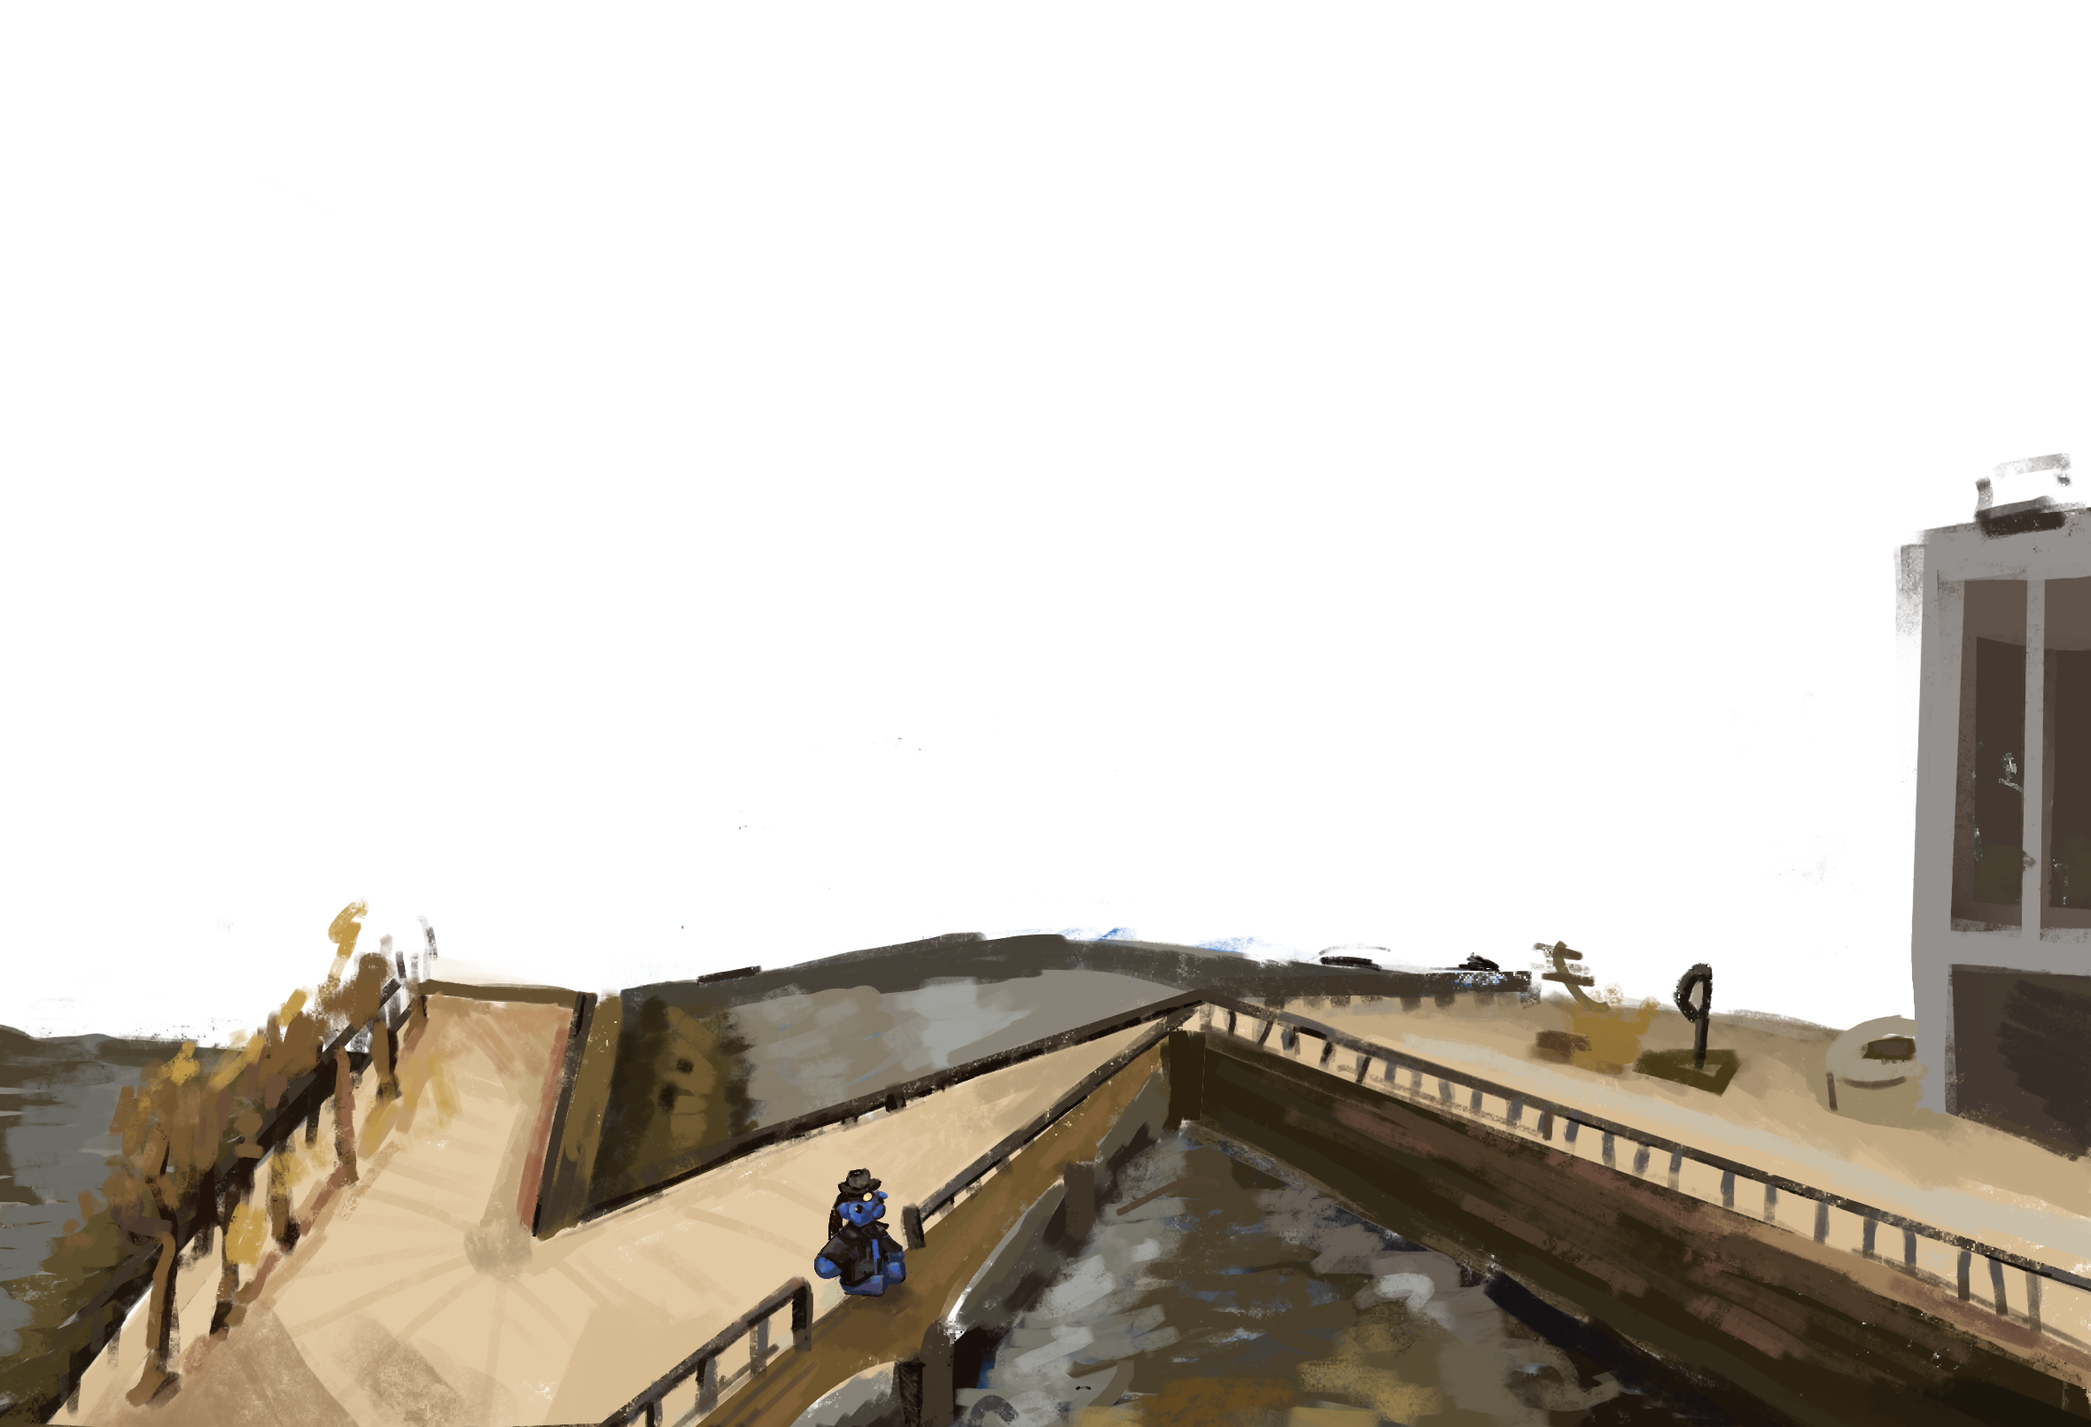
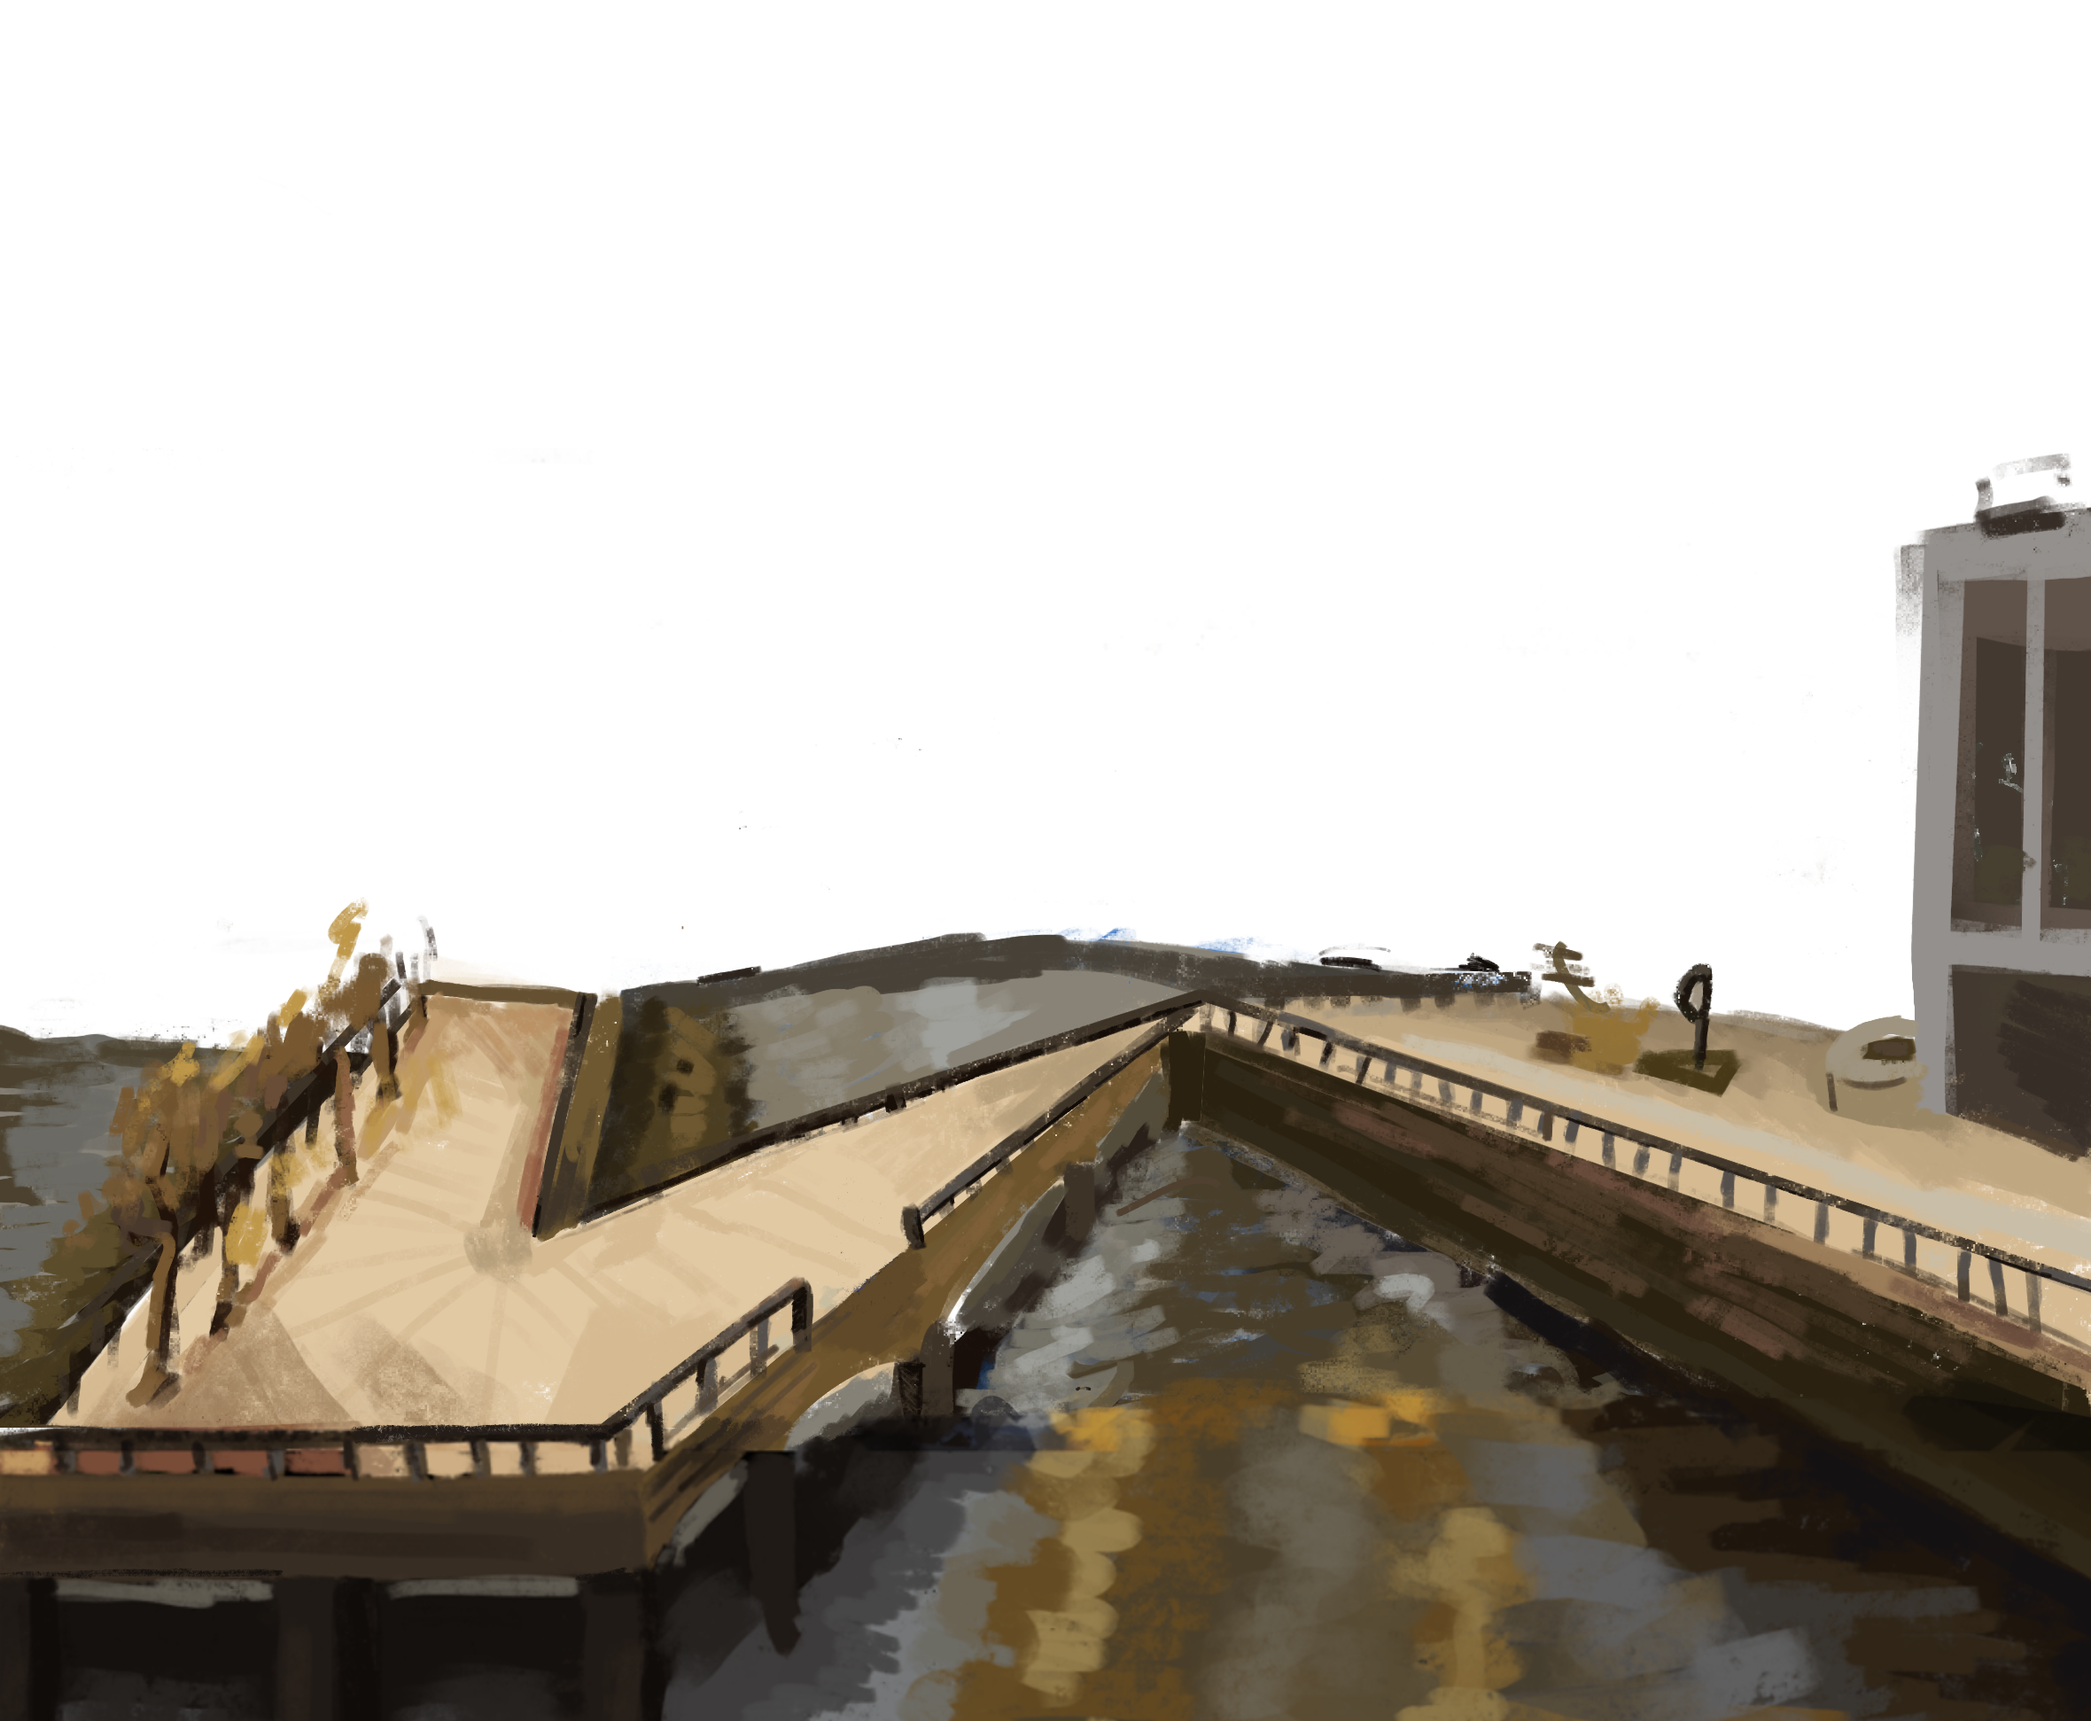
landing starting to look good

diff --git a/react/src/components/landing/LandingSplash.tsx b/react/src/components/landing/LandingSplash.tsx
@@ -1,9 +1,10 @@
 import React, { useEffect } from 'react';
 
-import layer1 from '../../assets/landing/layer_1.png';
+import bear_regular from '../../assets/landing/bear_regular.png';
+import bear_wave from '../../assets/landing/bear_wave.png';
+import layer1 from '../../assets/landing/layer_1_crop.png';
 import layer2 from '../../assets/landing/layer_2.png';
 import layer3 from '../../assets/landing/layer_3.png';
-// import layer4 from '../../assets/landing/layer_4.png';
 
 const LandingSplash: React.FC = () => {
 
@@ -16,20 +17,20 @@ const LandingSplash: React.FC = () => {
       // const layer1Element = document.querySelector('.layer-1') as HTMLElement;
       const layer2Element = document.querySelector('.layer-2') as HTMLElement;
       const layer3Element = document.querySelector('.layer-3') as HTMLElement;
-      // const layer4Element = document.querySelector('.layer-4') as HTMLElement;
+      const layer4Element = document.querySelector('.layer-4') as HTMLElement;
 
       // if (layer1Element) {
       //   layer1Element.style.transform = `translateY(-${scrollY * 0.2}px)`;
       // }
       if (layer2Element) {
-        layer2Element.style.transform = `translateY(-${scrollY * 0.5}px)`;
+        layer2Element.style.transform = `translateY(-${scrollY * 0.3}px)`;
       }
       if (layer3Element) {
-        layer3Element.style.transform = `translateY(-${scrollY * 0.7}px)`;
+        layer3Element.style.transform = `translateY(-${scrollY * 0.6}px)`;
       }
-      // if (layer4Element) {
-      //   layer4Element.style.transform = `translateY(-${scrollY * 0.5}px)`;
-      // }
+      if (layer4Element) {
+        layer4Element.style.transform = `translateY(-${scrollY * 0.6}px)`;
+      }
     };
 
     const resizeHandler = () => {
@@ -62,7 +63,7 @@ const LandingSplash: React.FC = () => {
     <section className='landingtop'
     style={{
       mask: "linear-gradient(to bottom, rgba(255,255,255,1) 83%, rgba(0,0,0,0) 100%)",
-      WebkitMask: "linear-gradient(to bottom, rgba(255,255,255,1) 83%, rgba(0,0,0,0) 100%)",
+      WebkitMask: "linear-gradient(to bottom, rgba(0, 0, 0, 0) 0%, rgba(255, 255, 255, 1) 17%, rgba(255, 255, 255, 1) 83%, rgba(255, 255, 255, 0) 100%);",
     }}>
       <div className='map relative left-1/2 transform -translate-x-1/2 aspect-w-3 aspect-h-2 w-full'>
         <div className="art-bg">
@@ -78,10 +79,24 @@ const LandingSplash: React.FC = () => {
               className="layer-3 art-bg-img absolute top-0 left-0 w-full z-30"
               src={layer3}
             />
-            {/* <img 
-              className="layer-4 art-bg-img absolute top-0 left-0 w-full z-30"
-              src={layer4}
-            /> */}
+            <img
+              className="layer-4 art-bg-img absolute w-full z-40"
+              style={{
+                top: "89%",
+                left: "38%",
+                width: "6%",
+                transform: "translate(-50%, -50%)",
+              }}
+              onMouseEnter={(e) => {
+                const target = e.target as HTMLImageElement;
+                target.src = bear_wave;
+              }}
+              onMouseLeave={(e) => {
+                const target = e.target as HTMLImageElement;
+                target.src = bear_regular;
+              }}
+              src={bear_regular}
+              />
         </div>
       </div>
     </section>

diff --git a/react/src/components/Navbar.tsx b/react/src/components/Navbar.tsx
@@ -49,21 +49,27 @@ const components: { title: string; href: string; description: string }[] = [
   },
 ]
  
-export default function Navbar() {
+export default function Navbar({navbarColor}: {navbarColor: string}) {
+      // style={{
+    //   position: "sticky",
+    //   top: 0,
+    //   left: 0,
+    //   width: "100%",
+    //   zIndex: 1000,
+    //   backgroundColor: "#050505ad",
+    //   backdropFilter: "blur(20px) saturate(160%) contrast(45%) brightness(140%)",
+    //   WebkitBackdropFilter: "blur(20px) saturate(160%) contrast(45%) brightness(140%)",
+    // }}>
   return (
-    <div className="navbar"
+    <div className={`navbar sticky top-0 z-40 w-full backdrop-blur-sm flex-none transition-colors duration-500 lg:z-50 lg:border-b lg:border-slate-900/10 dark:border-slate-50/[0.06] supports-backdrop-blur:bg-white/60 dark:bg-transparent`}
     style={{
-      position: "fixed",
-      top: 0,
-      left: 0,
-      width: "100%",
-      zIndex: 1000,
-      backgroundColor: "#050505ad",
-      backdropFilter: "blur(20px) saturate(160%) contrast(45%) brightness(140%)",
-      WebkitBackdropFilter: "blur(20px) saturate(160%) contrast(45%) brightness(140%)",
+      backgroundColor: navbarColor,
     }}>
       <NavigationMenu className="dark">
         <NavigationMenuList>
+          <NavigationMenuItem>
+            <NavigationMenuTrigger>Brown Puzzlehunt</NavigationMenuTrigger>
+          </NavigationMenuItem>
           <NavigationMenuItem>
             <NavigationMenuTrigger>Getting started</NavigationMenuTrigger>
             <NavigationMenuContent>
@@ -111,9 +117,6 @@ export default function Navbar() {
                 ))}
               </ul>
             </NavigationMenuContent>
-          </NavigationMenuItem>
-          <NavigationMenuItem>
-
           </NavigationMenuItem>
         </NavigationMenuList>
       </NavigationMenu>

diff --git a/react/src/main.tsx b/react/src/main.tsx
@@ -1,7 +1,7 @@
 import * as React from "react";
 import * as ReactDOM from "react-dom/client";
 import { createBrowserRouter, RouterProvider } from "react-router-dom";
-import Navbar from "./components/Navbar";
+import { PageWrapper } from "./components/pagewrapper";
 import "./index.css";
 import InfoPage from "./routes/InfoPage";
 import Landing from "./routes/Landing";
@@ -10,22 +10,21 @@ import SocialDeduction from "./routes/major_cases/SocialDeduction";
 const router = createBrowserRouter([
   {
     path: "/social-deduction",
-    element: <SocialDeduction />
+    element: <PageWrapper bg_color={"#1c160d"} navbar_color={"#1c110d96"} route={<SocialDeduction />} />
   },
   {
     path: "/landing",
-    element: <Landing />
+    element: <PageWrapper bg_color={"#02031d"} navbar_color={"#0f0d2e82"} route={<Landing />} />
   },
   {
     path: "/info",
-    element: <InfoPage />
+    element: <PageWrapper bg_color={"#02031d"} navbar_color={"#0f0d2e82"} route={<InfoPage />} />
   }
   
 ]);
 
 ReactDOM.createRoot(document.getElementById("root")!).render(
   <React.StrictMode>
-    <Navbar />
     <RouterProvider router={router} />
   </React.StrictMode>
 );

diff --git a/react/src/components/landing/LandingInfo.tsx b/react/src/components/landing/LandingInfo.tsx
@@ -8,10 +8,12 @@ const LandingInfo: React.FC = () => {
     
 
     
-    <div className='info'>
-      {/* // ADD QUESTION MARK WITH RELATIVE STYLING HERE */}
-      
-      <div className="grid grid-cols-1 md:grid-cols-9 gap-4 p-5">
+    <div className='info pt-5'
+      style={{
+        mask: "linear-gradient(rgb(255, 255, 255) 70%, rgba(0, 0, 0, 0) 100%)",
+        WebkitMask: "linear-gradient(rgb(255, 255, 255) 70%, rgba(0, 0, 0, 0) 100%)",
+      }}>
+      <div className="grid grid-cols-1 md:grid-cols-9 gap-4 p-5 pb-10">
         <div className="what-box col-start-1 col-span-5 md:col-start-2 md:col-span-3 text-center dark bg-gradient-to-b from-muted/50 to-muted p-6 no-underline outline-none focus:shadow-md btn-gradient-1 relative">
           <div className="question-mark absolute rotate-[333deg]" style={{top: "-74px",left: "-67px",}}>
             <img src={question} alt="Question Mark" className="h-44 w-44" style={{filter: "invert(100%) sepia(0%) saturate(0%) hue-rotate(158deg) brightness(104%) contrast(102%)",}}/>

diff --git a/react/src/components/PageWrapper.tsx b/react/src/components/PageWrapper.tsx
@@ -1,0 +1,18 @@
+import Footer from "@/components/Footer"
+import Navbar from "@/components/Navbar"
+
+
+export const PageWrapper = ({bg_color, navbar_color, route}: {bg_color: string, navbar_color: string, route: React.ReactNode}) => {
+  return (
+    <div className={`react-page`}
+    style={{
+      backgroundColor: bg_color
+    }}>
+      <Navbar navbarColor={navbar_color}/>
+      <div className="content">
+        {route}
+      </div>
+      <Footer />
+    </div>
+  )
+}

diff --git a/puzzles/templates/react_base.html b/puzzles/templates/react_base.html
@@ -5,6 +5,6 @@
   </script>
   <script type="module" crossorigin src="/static/react/index.js"></script>
   <link rel="stylesheet" crossorigin href="/static/react/index.css">
-  <div id="root"></div>  <!-- This is where your React app will be mounted -->
+  <div id="root" style="background-color: #222b50;"></div>  <!-- This is where your React app will be mounted -->
   {% load static %}
-{% endblock %} 
+{% endblock %}  

diff --git a/react/src/components/Footer.tsx b/react/src/components/Footer.tsx
@@ -1,0 +1,9 @@
+
+export default function Footer() {
+  return (
+    // text centered, slate
+    <div className="footer bg-intherit text-white text-center p-3">
+      <span className="text-muted-foreground">powered by <a className="underline font-semibold" href="https://github.com/galacticpuzzlehunt/gph-site/tree/master">gph-site</a></span>
+    </div>
+  )
+}

diff --git a/react/src/routes/InfoPage.tsx b/react/src/routes/InfoPage.tsx
@@ -1,9 +1,13 @@
+import ProgressDocs from "@/components/ProgressDocs";
 
 
 export default function InfoPage() {
+  //bg-[#02031d]
   return (
-    <div>
-      hello
+    <div className="info bg-slate-900 text-white h-full"> 
+      <ProgressDocs>
+        hello there
+      </ProgressDocs>
     </div>
   )
 }

diff --git a/react/src/components/ProgressDocs.tsx b/react/src/components/ProgressDocs.tsx
@@ -1,0 +1,12 @@
+
+
+import { ReactNode } from 'react';
+
+export default function ProgressDocs({ children }: { children: ReactNode }) {
+  return (
+    <div className="progress-docs">
+      <div className="progress"></div>
+      <div className="docs py-10 px-20">{children}</div>
+    </div>
+  )
+}

diff --git a/gph/urls.py b/gph/urls.py
@@ -130,6 +130,6 @@ urlpatterns = [
     path('react', views.prerelease_locked_react, name='react'),
     path('social-deduction', views.prerelease_locked_react, name='social-deduction'),
     path('landing', views.prerelease_locked_react, name='landing'),
-    # path('info', views.prerelease_locked_react, name='info'),
+    path('info', views.prerelease_locked_react, name='info'),
 ]
   
